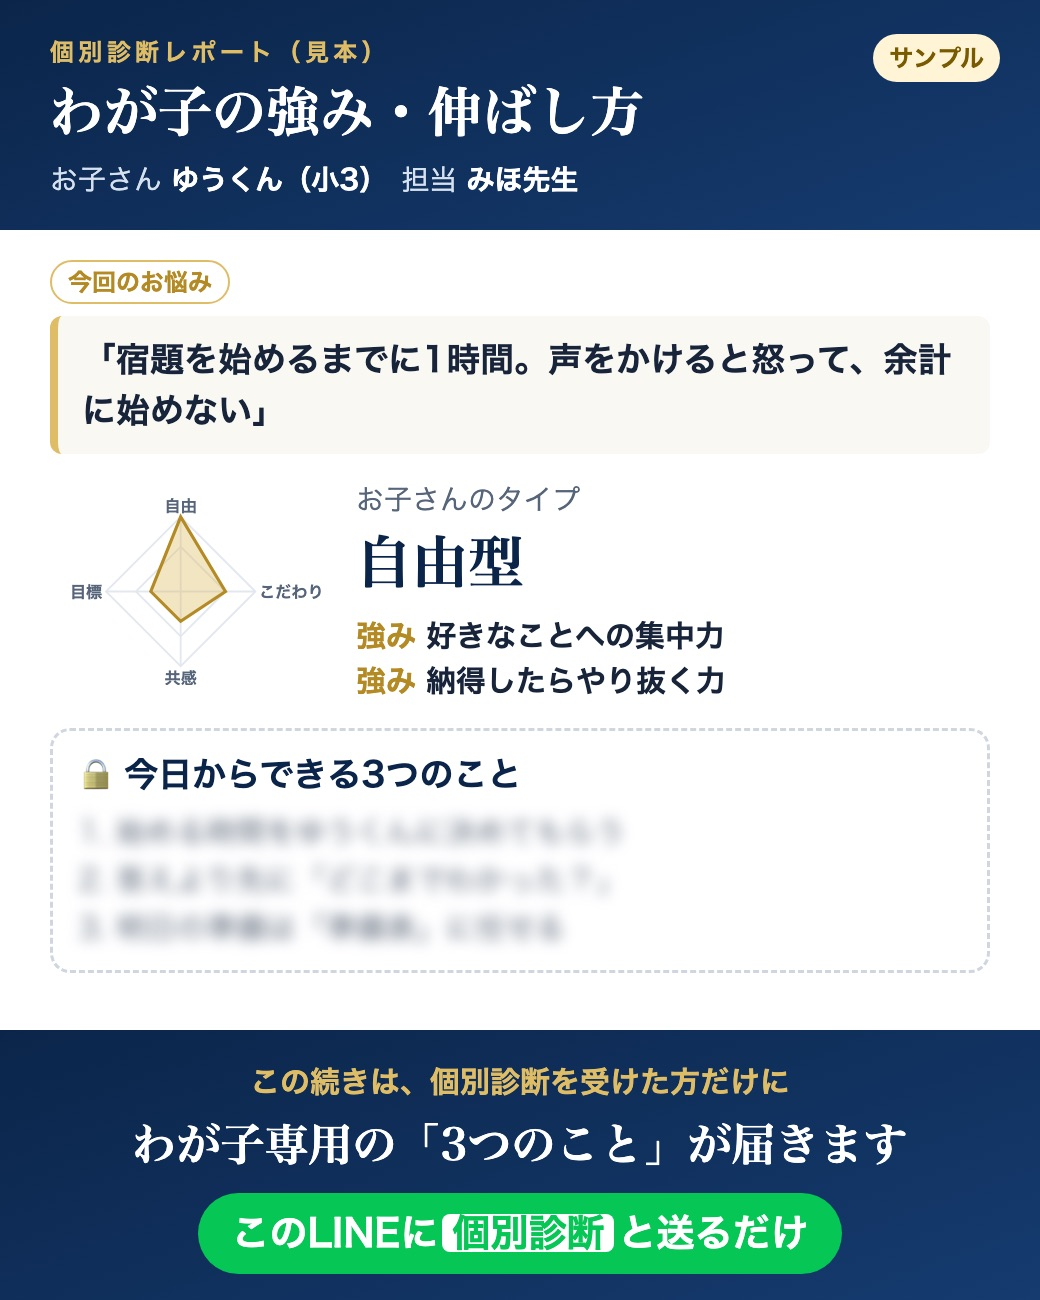
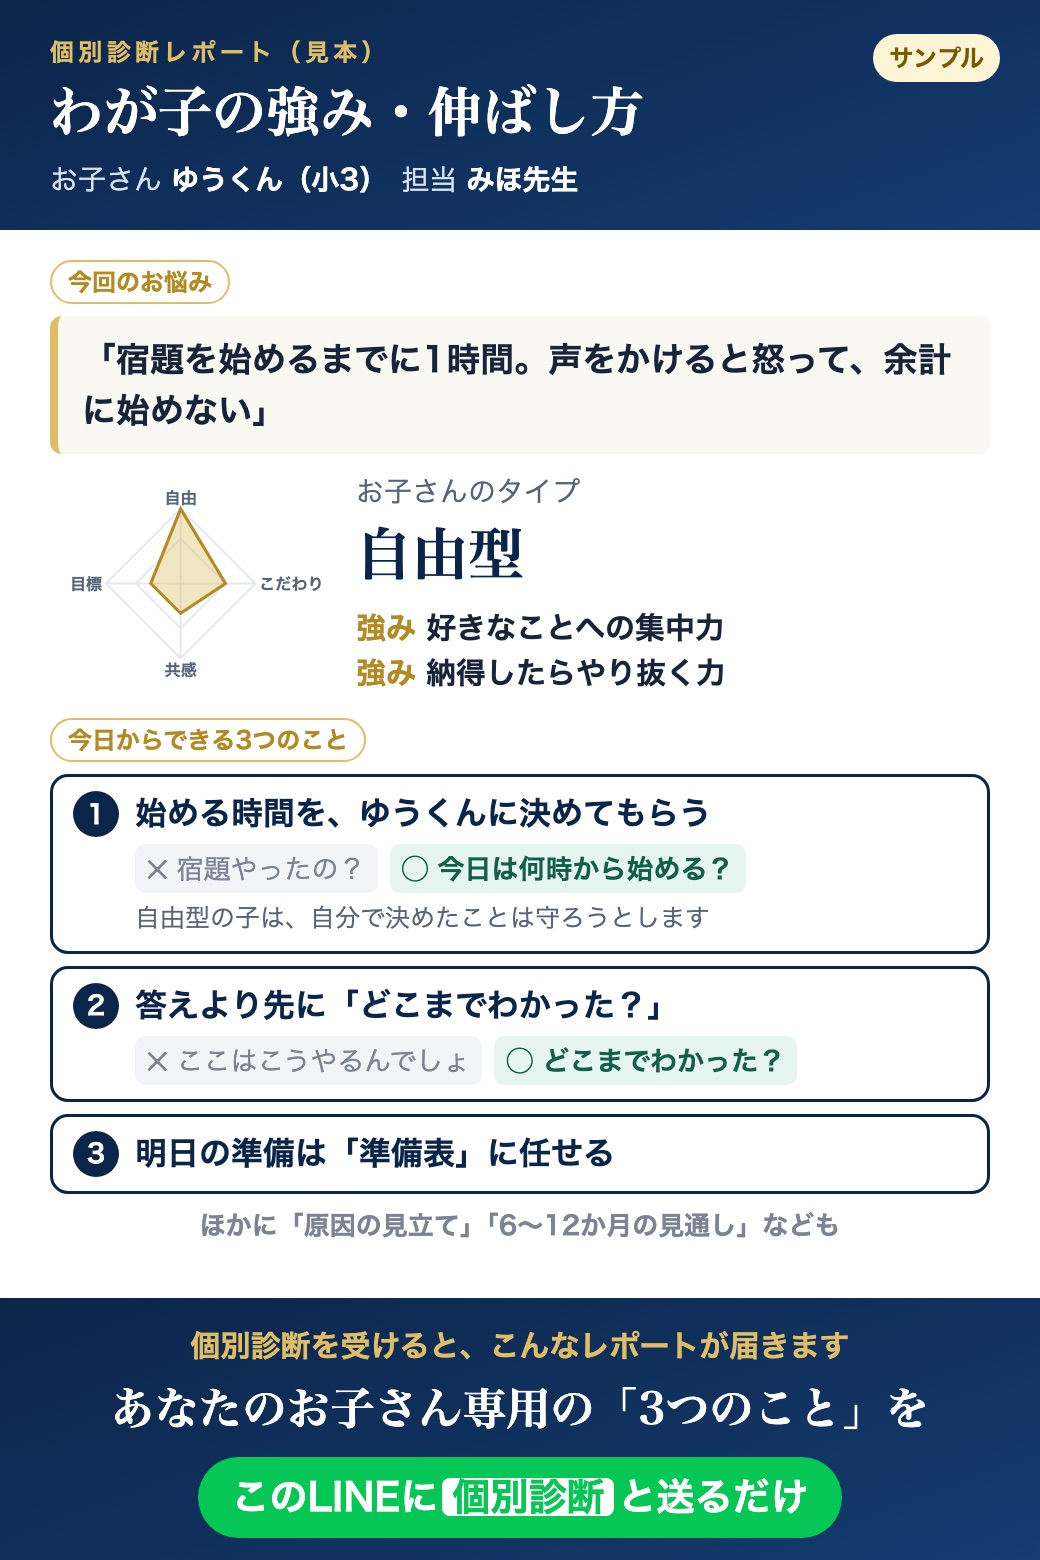
Show more of the report in the LINE sample; add a local server to try the input form

diff --git a/report/teaser-card.html b/report/teaser-card.html
@@ -1,9 +1,9 @@
 <!doctype html><html lang="ja"><head><meta charset="utf-8"><meta name="robots" content="noindex">
-<!-- LINEのトーク画面でそのまま読める、個別診断レポートの見本（1040×1300） -->
+<!-- LINEのトーク画面でそのまま読める、個別診断レポートの見本（1040×1560） -->
 <style>
 :root{--navy:#0b254a;--navy2:#153b6f;--gold:#b48a25;--gold2:#dfbd67;--ink:#17243a;--sub:#56657a;--line:#e3e8ef;--ivory:#faf8f3}
 *{margin:0;padding:0;box-sizing:border-box}
-html,body{width:1040px;height:1300px;overflow:hidden}
+html,body{width:1040px;height:1560px;overflow:hidden}
 body{font-family:"Hiragino Kaku Gothic ProN","Hiragino Sans",sans-serif;color:var(--ink);background:#fff;position:relative}
 .mincho{font-family:"Hiragino Mincho ProN",serif;font-weight:700}
 .head{background:linear-gradient(160deg,var(--navy),var(--navy2));color:#fff;padding:34px 50px 30px;position:relative}
@@ -24,11 +24,22 @@ body{font-family:"Hiragino Kaku Gothic ProN","Hiragino Sans",sans-serif;color:va
 .lock .h{font-size:34px;font-weight:900;color:var(--navy)}
 .lock .h::before{content:"🔒 "}
 .lock .blur{margin-top:8px;font-size:30px;line-height:1.6;color:#6b7686;filter:blur(7px);user-select:none}
-.cta{position:absolute;left:0;right:0;bottom:0;height:270px;background:linear-gradient(160deg,var(--navy),var(--navy2));color:#fff;text-align:center;padding-top:30px}
+.cta{position:absolute;left:0;right:0;bottom:0;height:262px;background:linear-gradient(160deg,var(--navy),var(--navy2));color:#fff;text-align:center;padding-top:26px}
 .cta .s{font-size:30px;color:var(--gold2);font-weight:900}
 .cta .m{font-size:44px;margin-top:6px}
 .cta .send{display:inline-block;margin-top:16px;background:#06c755;font-size:38px;font-weight:900;padding:12px 34px;border-radius:999px}
 .cta .send b{background:#fff;color:#06c755;padding:0 10px;border-radius:8px;margin:0 4px}
+.acts{margin-top:22px}
+.a{display:flex;gap:16px;margin-top:12px;border:3px solid var(--navy);border-radius:18px;padding:14px 20px}
+.a>span{flex:none;width:46px;height:46px;border-radius:50%;background:var(--navy);color:#fff;font-size:26px;font-weight:900;display:flex;align-items:center;justify-content:center}
+.a b{font-size:32px;color:var(--navy);line-height:1.4}
+.say{display:flex;flex-wrap:wrap;gap:8px 12px;margin-top:8px}
+.say i{font-style:normal;font-size:27px;border-radius:10px;padding:4px 12px}
+.say .ng{background:#f2f4f7;color:#7b8494}
+.say .ok{background:#e6f5ef;color:#135f4c;font-weight:800}
+.why{font-size:25px;color:var(--sub);margin-top:6px}
+.more{margin-top:12px;font-size:26px;color:#7b8494;font-weight:700;text-align:center}
+.res{margin-top:16px}
 </style></head><body>
 <div class="head"><div class="k">個別診断レポート（見本）</div><h1 class="mincho">わが子の強み・伸ばし方</h1>
 <div class="meta">お子さん <b>ゆうくん（小3）</b>　担当 <b>みほ先生</b></div></div>
@@ -41,10 +52,14 @@ body{font-family:"Hiragino Kaku Gothic ProN","Hiragino Sans",sans-serif;color:va
   <div><div class="t">お子さんのタイプ<b>自由型</b></div>
    <div class="str"><em>強み</em> 好きなことへの集中力<br><em>強み</em> 納得したらやり抜く力</div></div>
  </div>
- <div class="lock"><div class="h">今日からできる3つのこと</div>
-  <div class="blur">1. 始める時間をゆうくんに決めてもらう<br>2. 答えより先に「どこまでわかった？」<br>3. 明日の準備は「準備表」に任せる</div></div>
+ <div class="acts"><span class="lbl">今日からできる3つのこと</span>
+  <div class="a"><span>1</span><div><b>始める時間を、ゆうくんに決めてもらう</b><div class="say"><i class="ng">✕ 宿題やったの？</i><i class="ok">◯ 今日は何時から始める？</i></div><div class="why">自由型の子は、自分で決めたことは守ろうとします</div></div></div>
+  <div class="a"><span>2</span><div><b>答えより先に「どこまでわかった？」</b><div class="say"><i class="ng">✕ ここはこうやるんでしょ</i><i class="ok">◯ どこまでわかった？</i></div></div></div>
+  <div class="a"><span>3</span><div><b>明日の準備は「準備表」に任せる</b></div></div>
+ </div>
+ <div class="more">ほかに「原因の見立て」「6〜12か月の見通し」なども</div>
 </div>
-<div class="cta"><div class="s">この続きは、個別診断を受けた方だけに</div>
-<div class="m mincho">わが子専用の「3つのこと」が届きます</div>
+<div class="cta"><div class="s">個別診断を受けると、こんなレポートが届きます</div>
+<div class="m mincho">あなたのお子さん専用の「3つのこと」を</div>
 <div class="send">このLINEに<b>個別診断</b>と送るだけ</div></div>
 </body></html>
